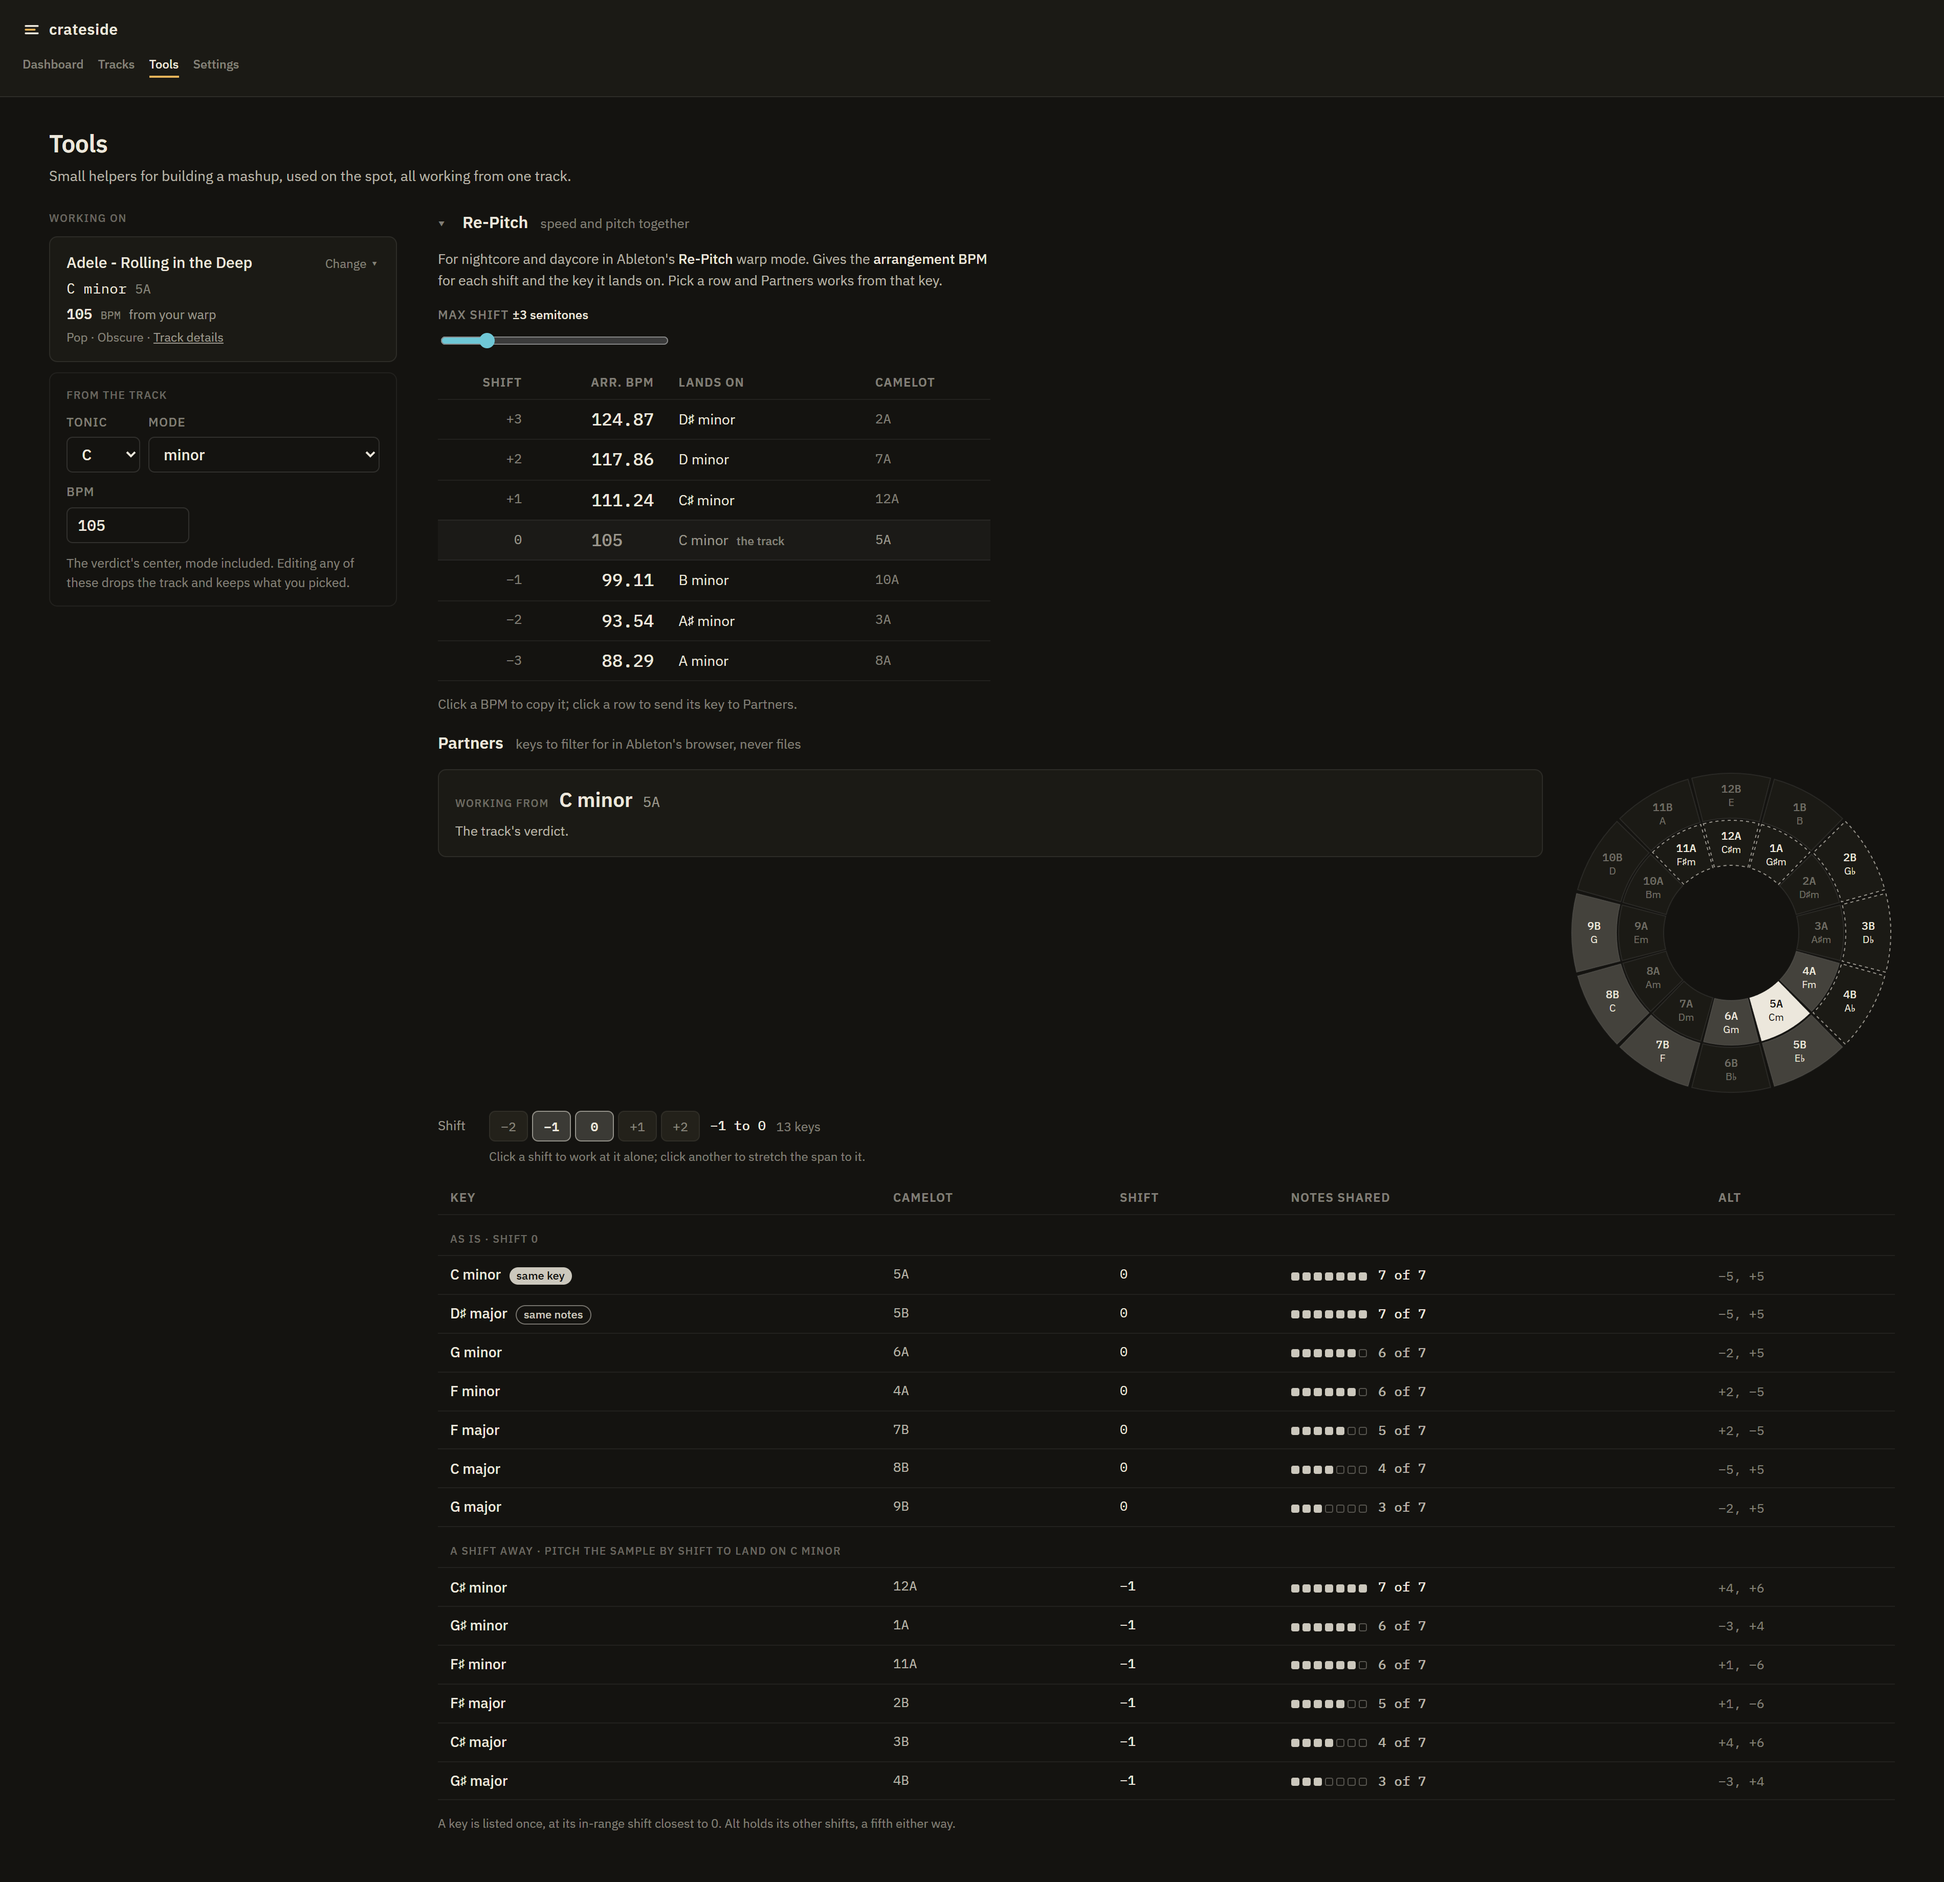
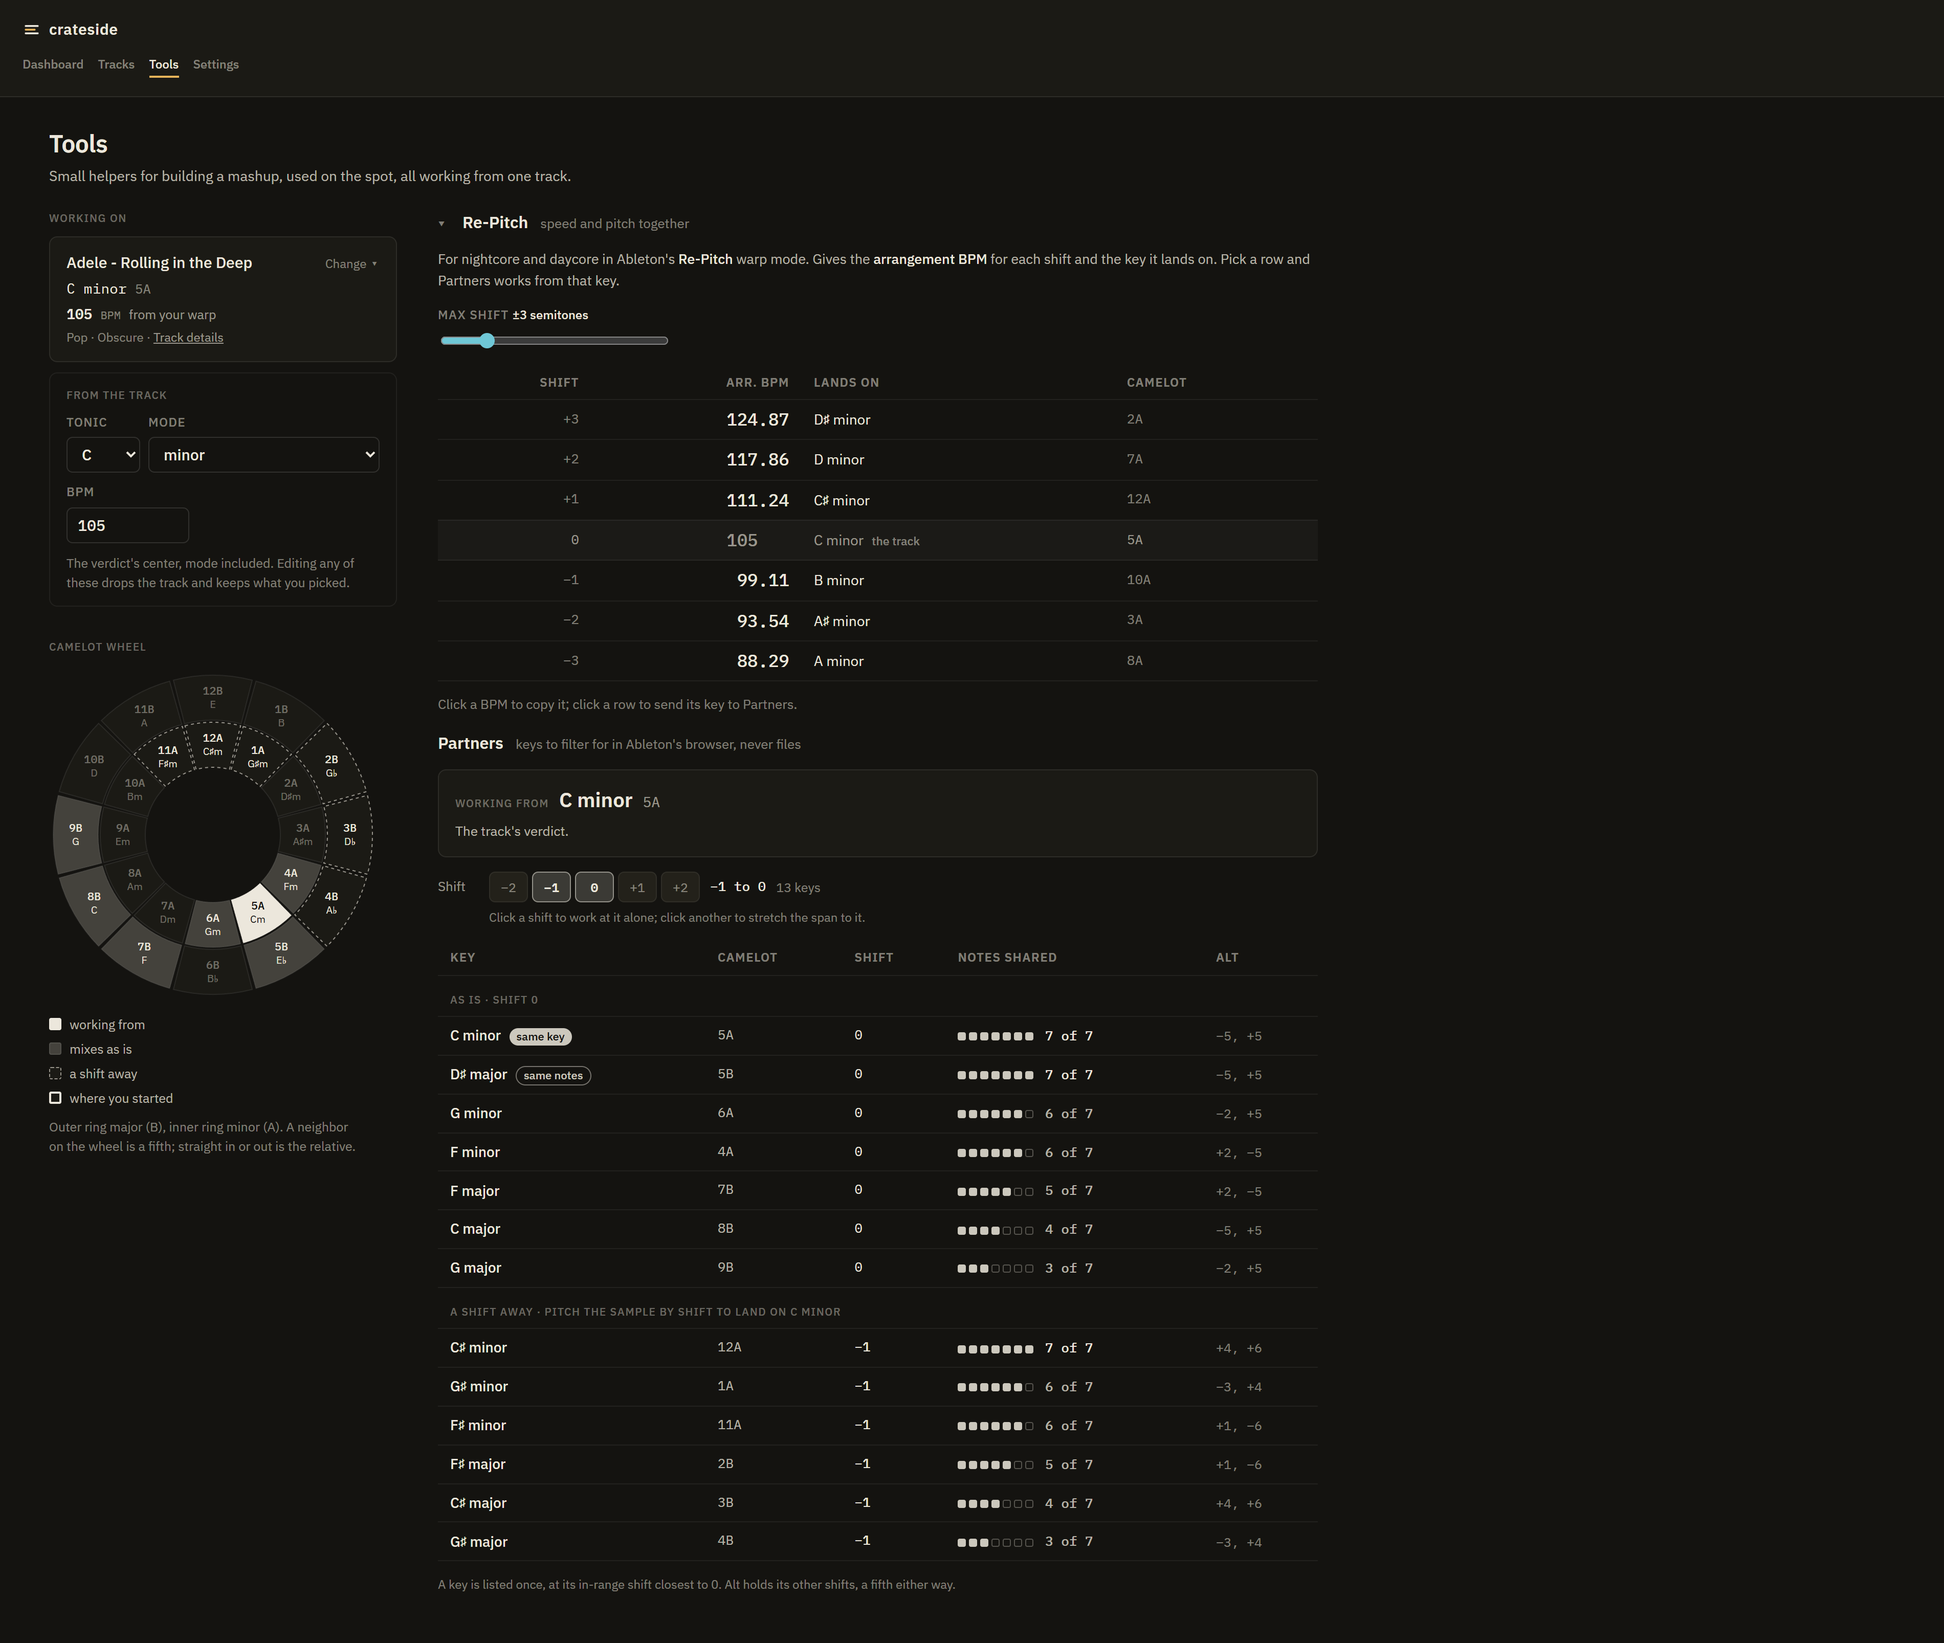
Tools: the wheel sits with the track, and Re-Pitch and Partners share one bounded column
Below 2200px the tools column stretched to the window and the wheel was drawn
inside Partners beside its short basis box, so the table spread over empty
width and a hole opened under the box. Now the wheel sits under Working on
(right of the tools below 1700px, last below 1100px), Re-Pitch and Partners
share one column capped at 860px, and the inline wheel is gone.

diff --git a/src/Crateside/Components/Pages/Tools.razor.css b/src/Crateside/Components/Pages/Tools.razor.css
@@ -18,21 +18,30 @@
     color: var(--text-75);
 }
 
-/* Left to right in the order the user works: the track, the tools, the wheel. Re-Pitch sits above
-   Partners, which it feeds, so folding it moves nothing sideways. */
+/* The track, with the wheel under it, beside the tools. Re-Pitch sits above Partners, which it
+   feeds, so folding it moves nothing sideways; both share the tools column's width. */
 .columns {
     display: grid;
-    grid-template-columns: 340px minmax(0, 860px) 340px;
-    gap: 40px;
+    grid-template-columns: 340px minmax(0, 860px);
+    grid-template-areas:
+        "working tools"
+        "wheel tools";
+    grid-template-rows: auto 1fr;
+    gap: 32px 40px;
     align-items: start;
 }
 
-.tools-col {
-    gap: 32px;
+.working-col {
+    grid-area: working;
 }
 
-.tools-col ::deep .repitch-tool {
-    max-width: 540px;
+.wheel-col {
+    grid-area: wheel;
+}
+
+.tools-col {
+    grid-area: tools;
+    gap: 32px;
 }
 
 .col {
@@ -121,46 +130,25 @@
     border: 2px solid var(--text);
 }
 
-/* The wheel has its own column only on the widest windows and the narrowest. */
-.col ::deep .wheel-inline {
-    display: none;
-}
-
-@media (max-width: 2200px) {
-    .columns {
-        grid-template-columns: 340px minmax(0, 1fr);
-    }
-
-    .wheel-col {
-        display: none;
-    }
-
-    .col ::deep .wheel-inline {
-        display: block;
-    }
-}
-
-/* Working on runs across the top, as its own breakpoint in WorkingOn.razor.css lays it out for. */
+/* Working on runs across the top, as its own breakpoint in WorkingOn.razor.css lays it out for,
+   and the wheel moves to the right of the tools. */
 @media (max-width: 1700px) {
     .columns {
-        grid-template-columns: minmax(0, 1fr);
-    }
-
-    .tools-col {
-        max-width: 860px;
+        grid-template-columns: minmax(0, 860px) 300px;
+        grid-template-areas:
+            "working working"
+            "tools wheel";
+        grid-template-rows: auto;
     }
 }
 
+/* One column, the wheel last. */
 @media (max-width: 1100px) {
     .columns {
         grid-template-columns: minmax(0, 1fr);
-    }
-
-    .wheel-col {
-        display: flex;
-    }
-
-    .col ::deep .wheel-inline {
-        display: none;
+        grid-template-areas:
+            "working"
+            "tools"
+            "wheel";
     }
 }

diff --git a/scripts/screenshots.py b/scripts/screenshots.py
@@ -25,7 +25,7 @@ IMAGES = ROOT / "docs" / "images"
 PORT = 5099
 URL = f"http://localhost:{PORT}"
 VIEWPORT = {"width": 1600, "height": 900}
-# Tools lays the Camelot wheel beside Partners only from this width.
+# A window as wide as the maintainer's, for the Tools shot.
 WIDE = {"width": 1900, "height": 1000}
 FIRST_TRACK = "DemoTrack01"
 # The Tracks page lists every song; its screenshot stops after this many rows.

diff --git a/docs/design/DESIGN.md b/docs/design/DESIGN.md
@@ -357,9 +357,9 @@ Tools · Settings**), at `/` and `/dashboard`; Tracks moved to `/tracks`. No wid
 
 ## Tools
 
-Handoff 12, superseding handoff 09's sub-tabs. **One page at `/tools`, no sub-tabs**, in columns
-left to right as the user works: *Working on* (340px), **Re-Pitch** (540px, foldable), **Partners**
-(up to 860px; never folds), the **Camelot wheel** (340px). The state lives in the query (`?track=`
+Handoff 12, superseding handoff 09's sub-tabs. **One page at `/tools`, no sub-tabs**, in two
+columns: *Working on* (340px) with the **Camelot wheel** under it, beside **Re-Pitch** (foldable)
+above **Partners** (never folds), which share one column of up to 860px. The state lives in the query (`?track=`
 and `&section=`, or `?key=a-dorian&bpm=`, plus `&shift=` and `&lo=&hi=`), so a reload or a pasted
 link restores it, and the tab reopens where it was left until a restart.
 
@@ -398,11 +398,11 @@ link restores it, and the tab reopens where it was left until a restart.
   in force. Read-only.
 - **Re-Pitch's *Lands on*** names the center, mode included (`G♯ Dorian`), with its tag's Camelot.
   It keeps its ±N slider: it lists every shift's BPM to pick one row, which a span would not help.
-- **Breakpoints**: three columns at ≥ 2200px (Working on, Re-Pitch above Partners, the wheel); below, the wheel sits beside the basis box inside
-  Partners; below 1700px *Working on* runs across the top; below 1100px one column with the wheel
-  last.
-- **A third tool** joins as a foldable column with Re-Pitch's anatomy: left of Partners if it
-  changes the key or BPM Partners works from, right of the wheel if not.
+- **Breakpoints**: below 1700px *Working on* runs across the top and the wheel moves to the right of
+  the tools (300px); below 1100px one column with the wheel last. The wheel is never drawn inside
+  Partners: beside its short basis box it left a hole (2026-11-04).
+- **A third tool** joins the tools column with Re-Pitch's anatomy: above Partners if it changes the
+  key or BPM Partners works from, below it if not.
 - **Re-Pitch figures use the tempo formatter**: a shift of a vouched tempo is vouched, a drifting
   track's are `~` whole numbers. A BPM copies on click; **the clipboard gets the figure without the
   tilde**, and the row says what was copied (and that it's approximate, for a drifting track).
@@ -439,8 +439,8 @@ Handoff 10. Every setting is one **row**: name (14px/500) and a one-line gist (`
 ## Table caps
 
 One width cap per table shape: `--table-partners` 50rem, `--table-library` 56rem,
-`--table-tracks` 92rem. Track details uses `--table-tracks`. The Tools columns cap themselves:
-Re-Pitch 540px, Partners 860px.
+`--table-tracks` 92rem. Track details uses `--table-tracks`. The Tools column caps itself at
+860px, Re-Pitch and Partners alike.
 
 ## Differs from the design
 
